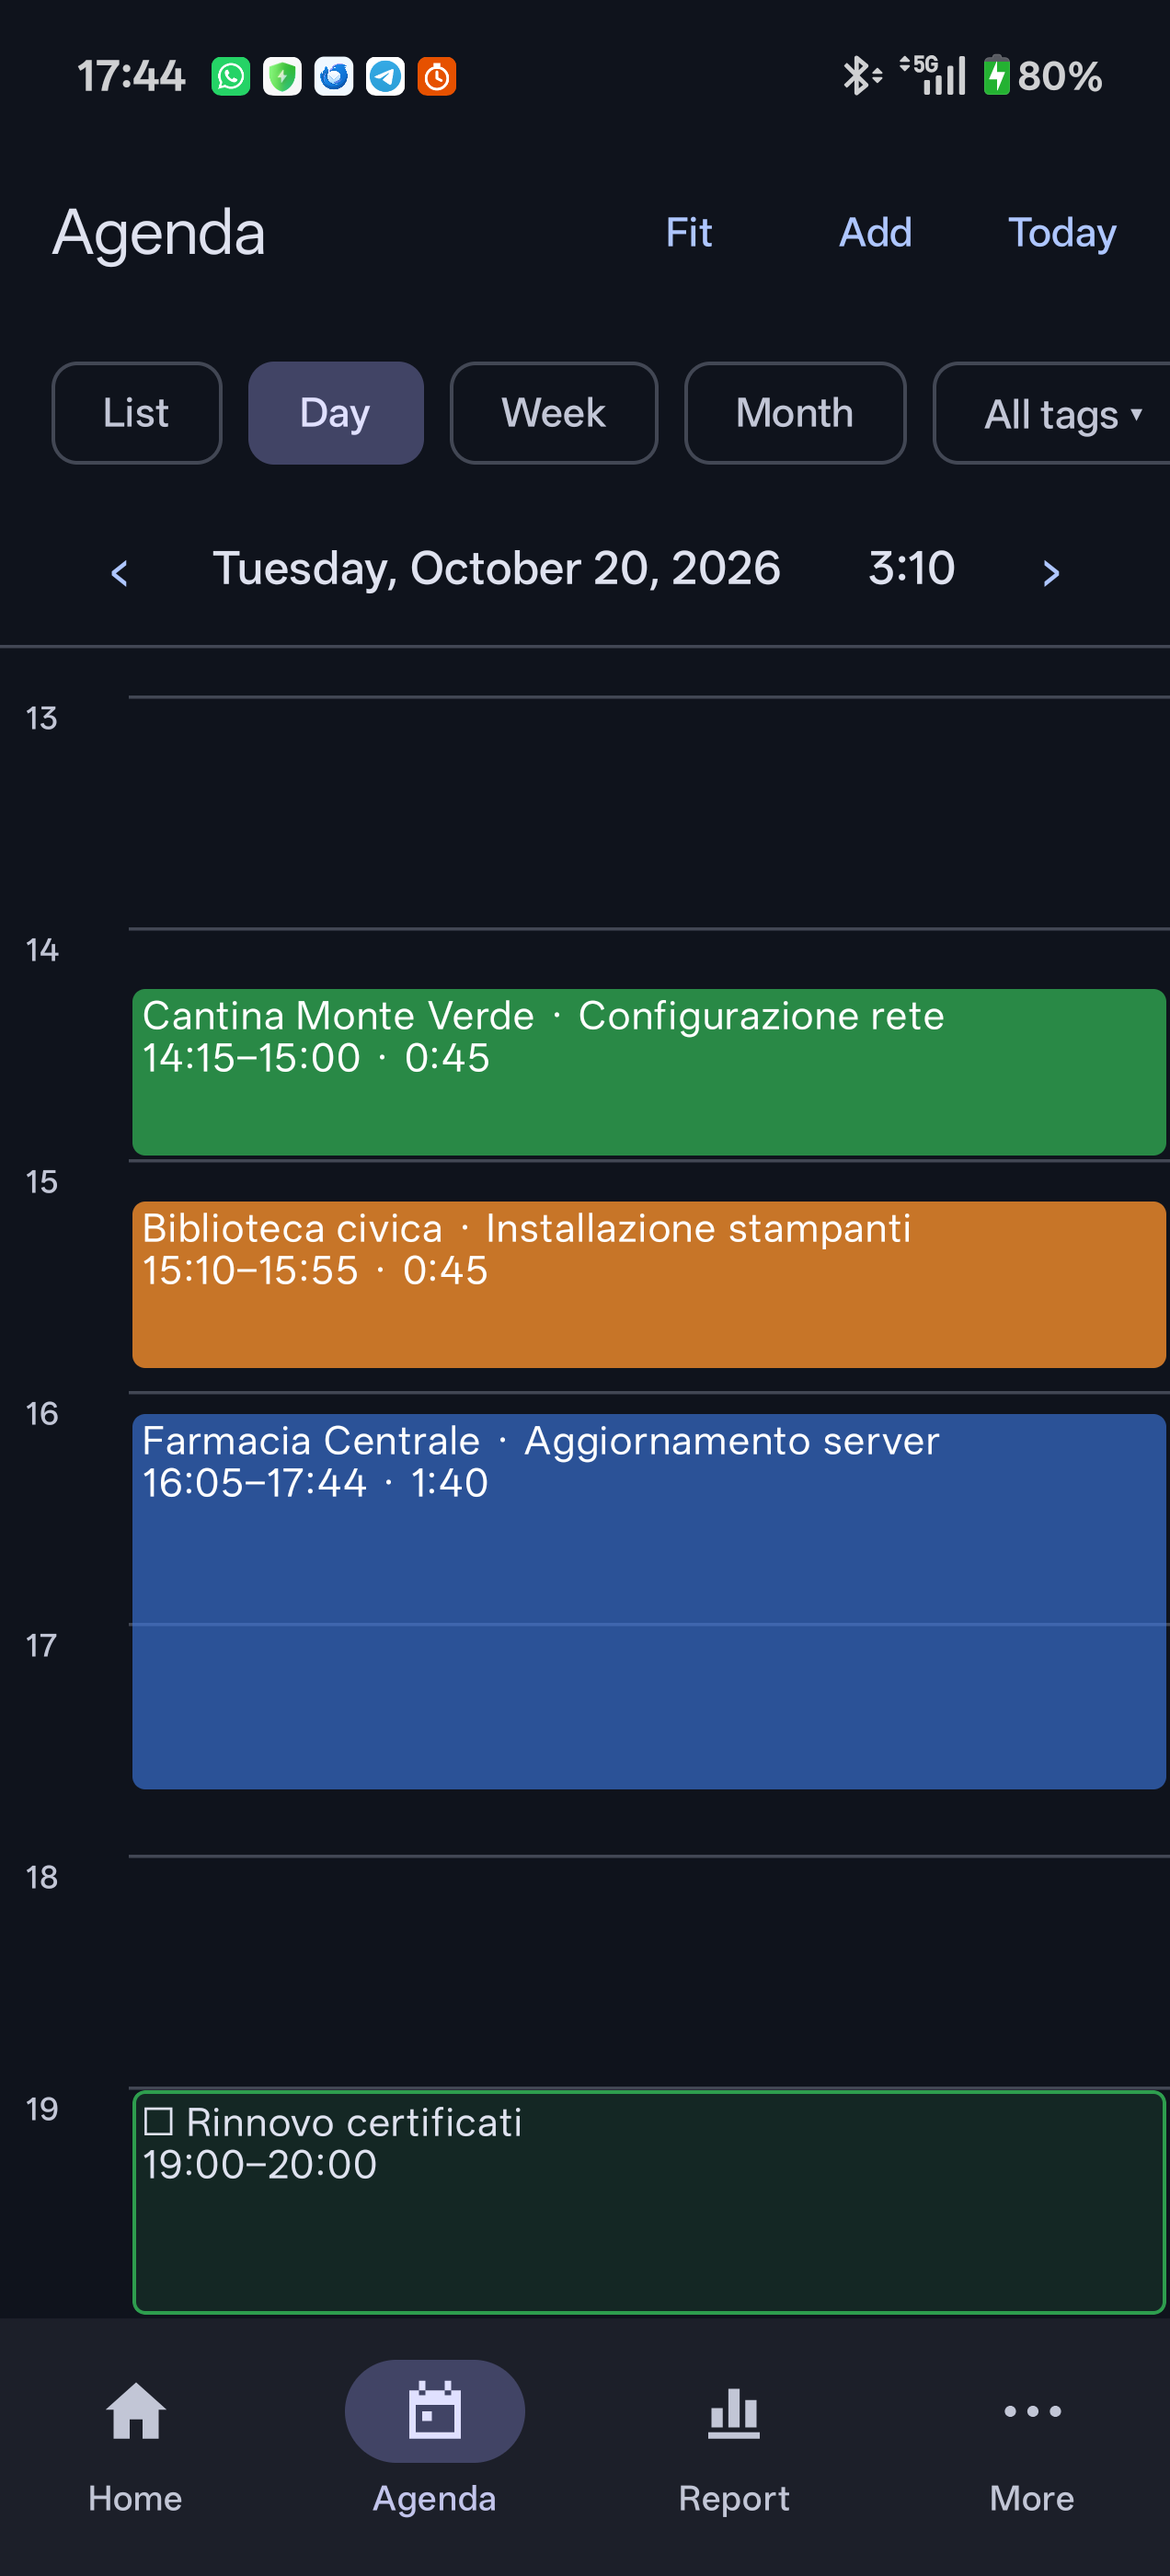
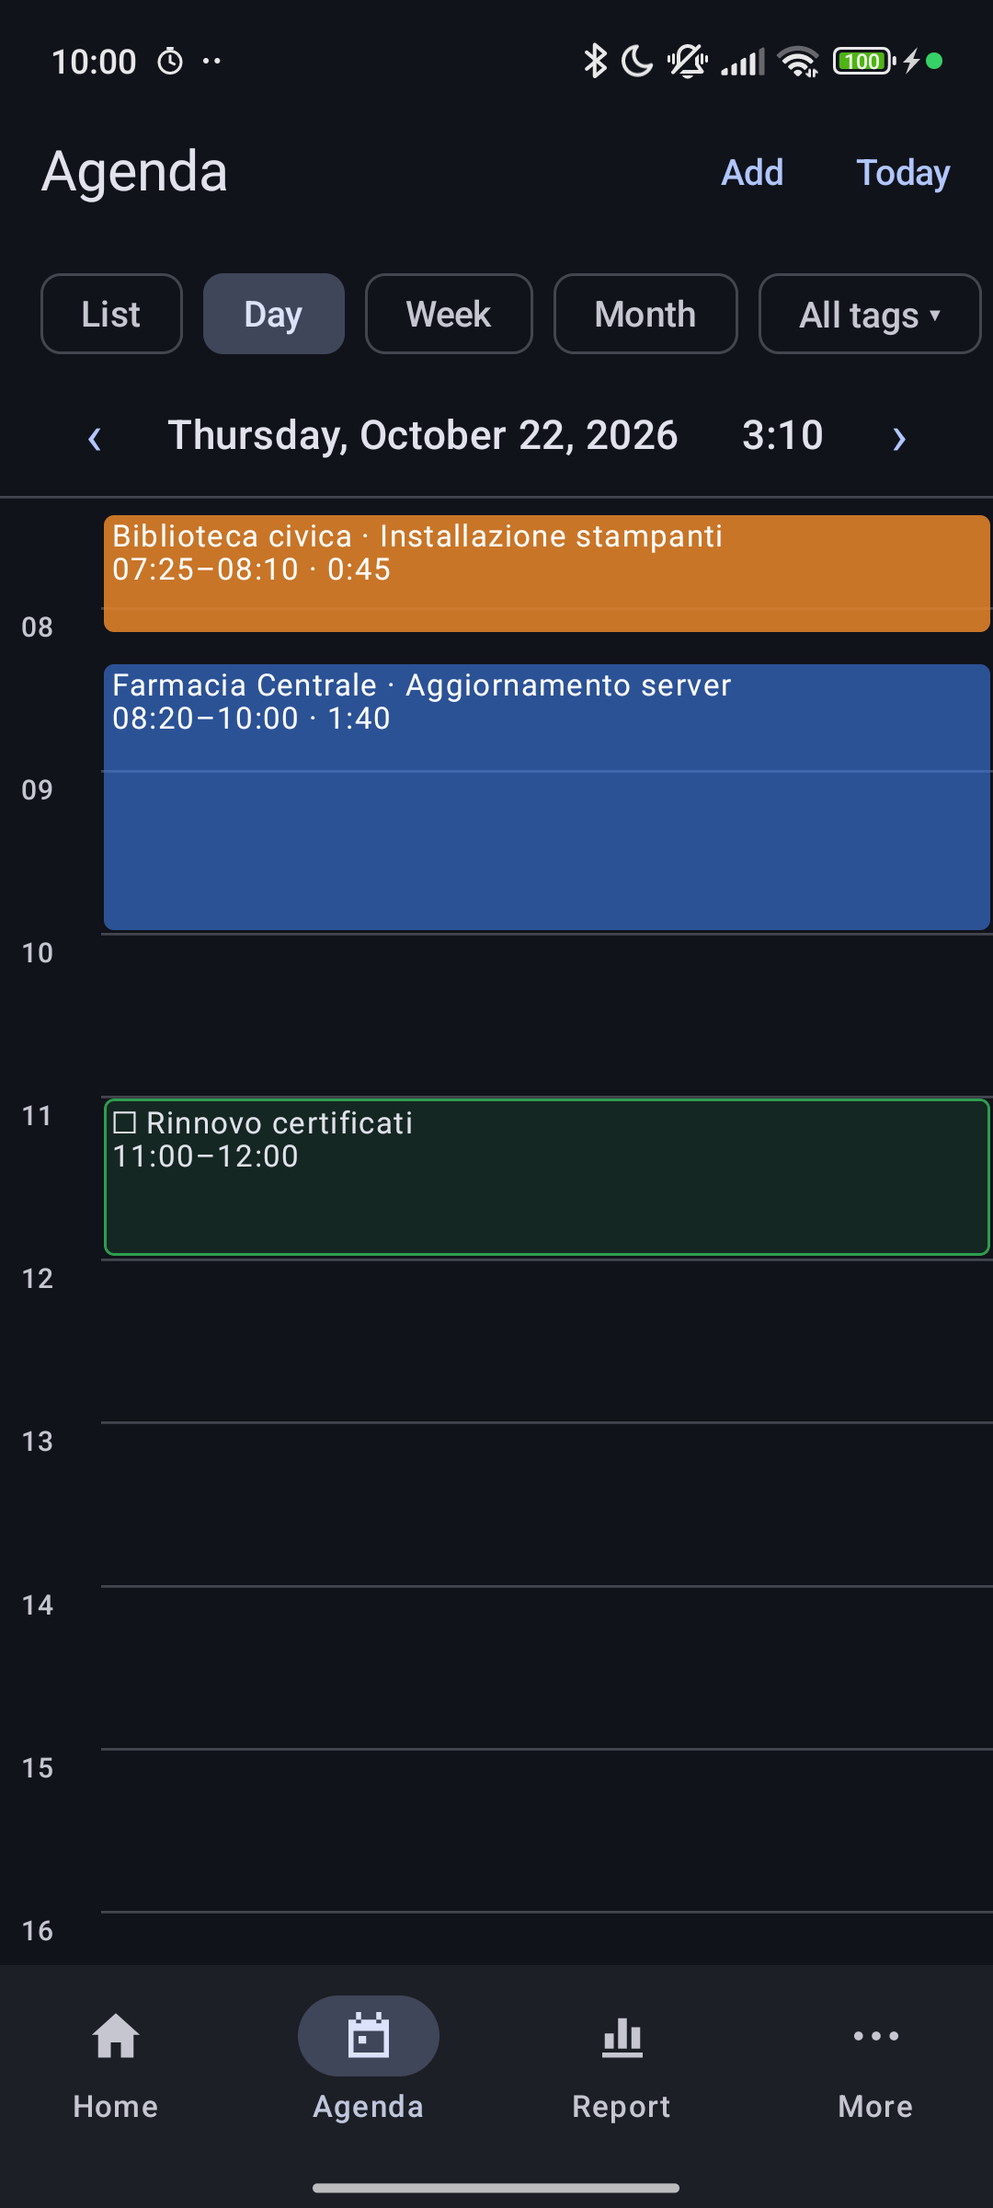
Manual screenshots refreshed (debug phone, 2026-10-22)
All 22 screenshots (it, en) taken again in the morning with the sample
data; the agenda day picture is current, its "old picture" captions go.
screenshots.py: stops at once without a phone and never writes a
non-PNG capture over an image; retries an empty uiautomator dump.

diff --git a/it/manual.md b/it/manual.md
@@ -431,7 +431,7 @@ oggi; a destra il totale rendicontato del periodo).
 - **Mese** — griglia con le ore rendicontate per giorno, un pallino per
   azienda e uno per le *Da fare*; toccando un giorno si apre la vista Giorno.
 
-![Agenda: vista Giorno (immagine vecchia: ora la scala si regola con due dita)](img/agenda-day.png)
+![Agenda: vista Giorno (la scala si regola con due dita)](img/agenda-day.png)
 
 **Filtro per tag**: il chip "Tutti i tag ▾" accanto alle modalità (compare
 quando nel periodo ci sono attività con tag) mostra solo le attività con quel

diff --git a/en/manual.md b/en/manual.md
@@ -423,7 +423,7 @@ on the right the period's reported total).
 - **Month** — a grid with reported hours per day, one dot per company and one
   for to-dos; tapping a day opens the Day view.
 
-![Agenda: Day view (old picture: the scale now changes with two fingers)](img/agenda-day.png)
+![Agenda: Day view (two fingers change the scale)](img/agenda-day.png)
 
 **Tag filter**: the "All tags ▾" chip next to the modes (shown when the
 period has tagged activities) shows only the activities with that tag;
